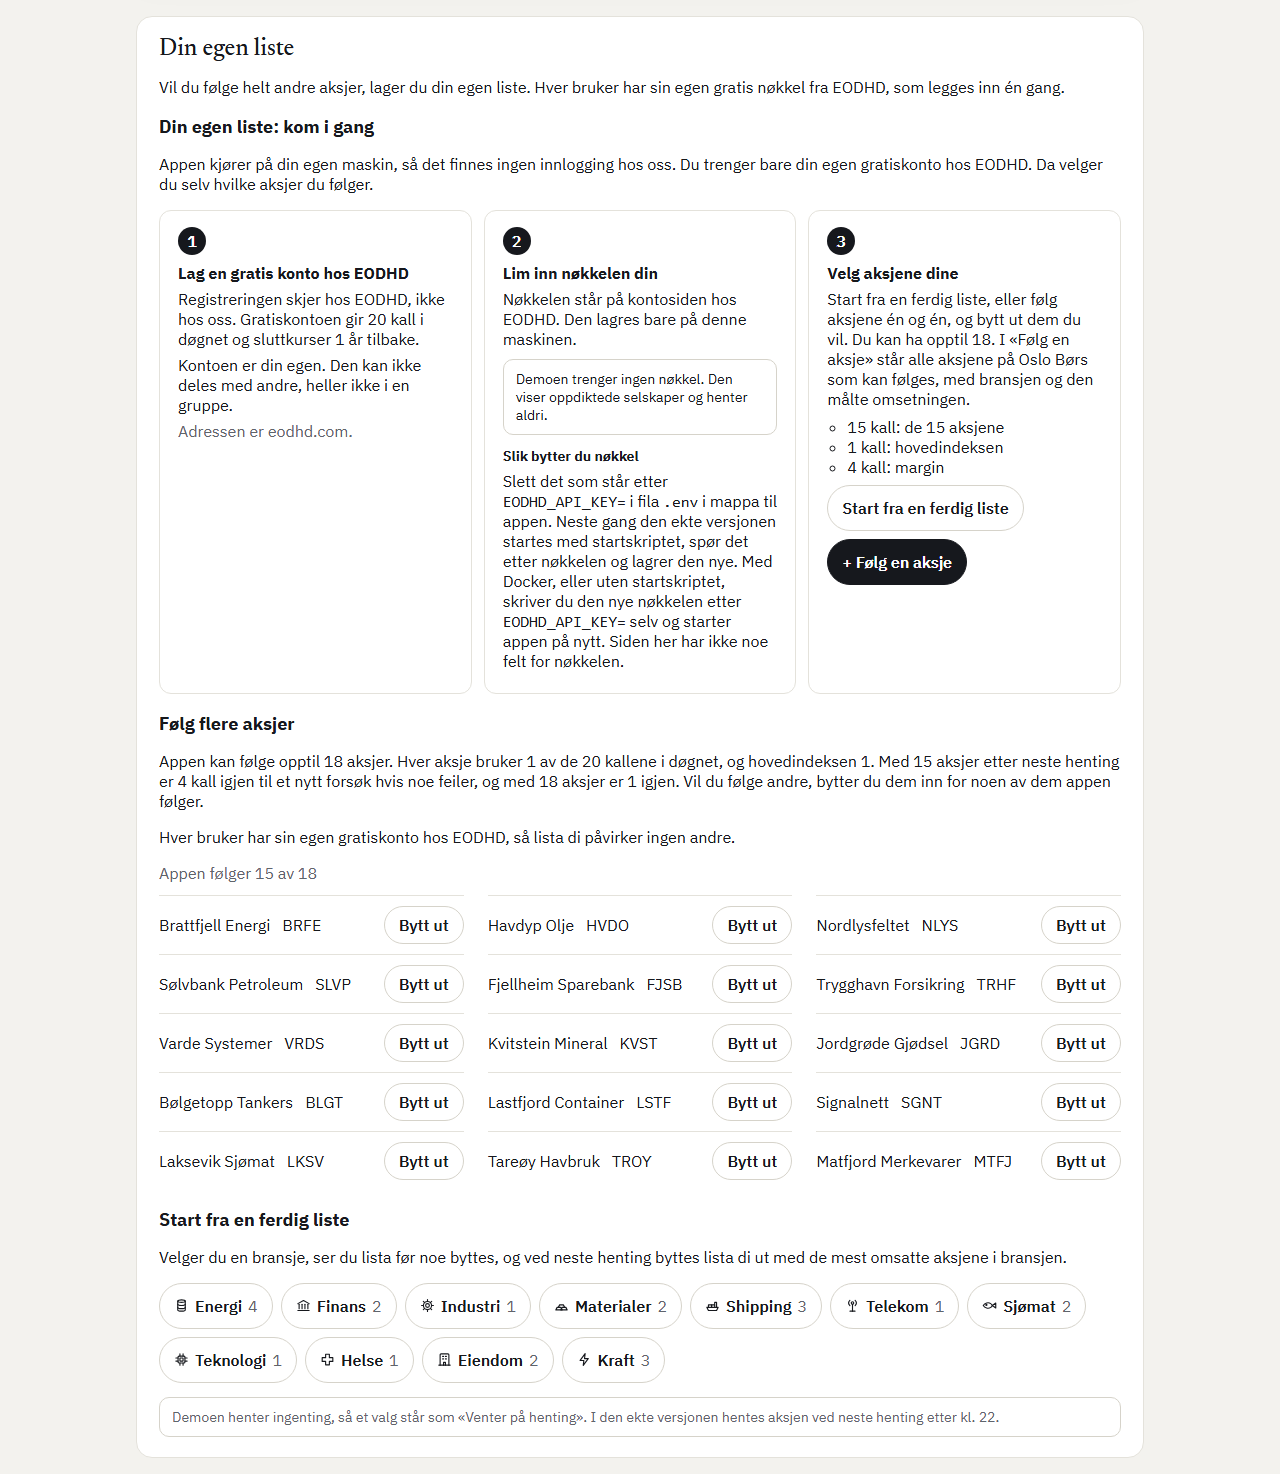
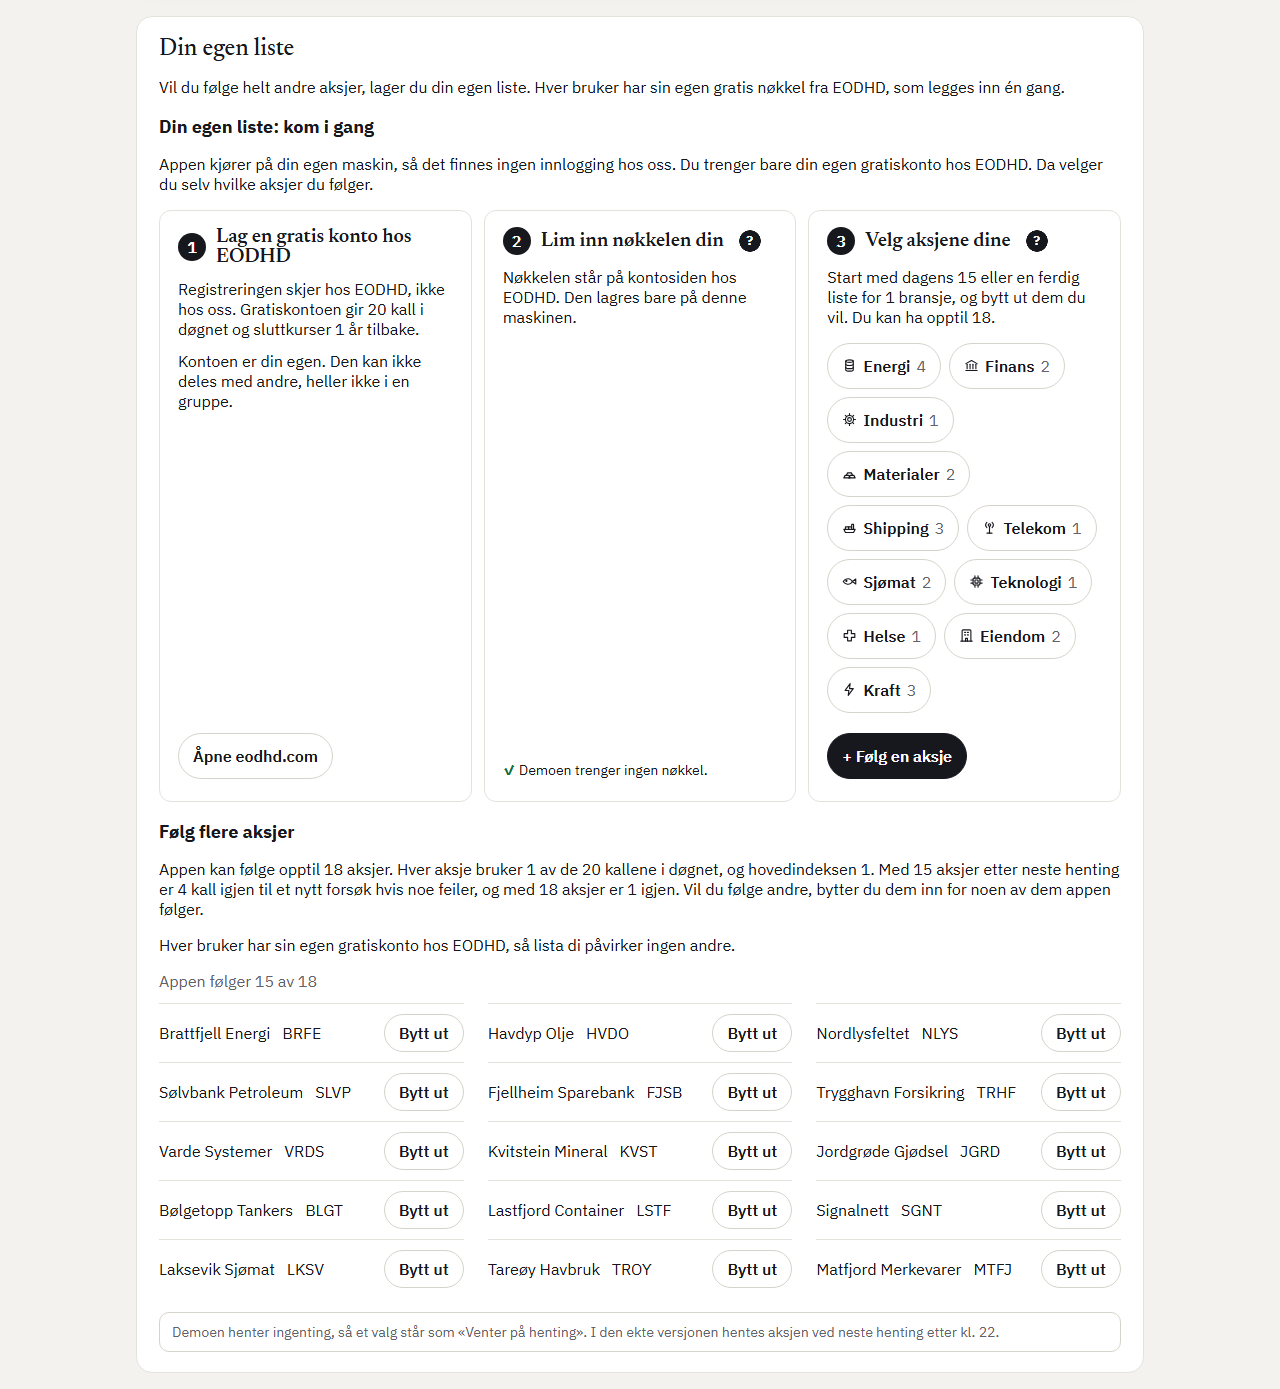
8.26: bildene av Min liste etter tillegg 12
«Din egen liste» med stegkortene som på tavla (1389 px, var 1474) og
notatene i Min liste. De andre bildene er like.

diff --git a/tests/test_docker.py b/tests/test_docker.py
@@ -1881,7 +1881,8 @@ DE_NYE_BILDENE = {
     # Gjennomgangen av tillegg 4: 1714, med teksten for Docker i «Slik bytter du nøkkel».
     # Tillegg 3 (svarene 10.11 kl. 22:44): 1454, med én knapp per bransje i stedet for lister. Var 1714.
     # Story 8.26: 1454 -> 1474 (tabellen «Dine egne aksjer» med navnet og bransjen på to linjer).
-    "docs/appen/din-egen-liste-demo.png": ("/min-liste", 1280, 1474, FILENE_BAK_MIN_LISTE),
+    # Story 8.26 (tillegg 12): 1474 -> 1389, stegkortene som på tavla, med kallene bak «?».
+    "docs/appen/din-egen-liste-demo.png": ("/min-liste", 1280, 1389, FILENE_BAK_MIN_LISTE),
     # Story 8.22: «Følg en aksje» i demoen med Kraft valgt, hele siden (1326 px), sist i knappen.
     # Flettingen av main (8.9, «Vis meg rundt») inn i 8.22: 1368. Bekreftelsen sier «Demo Børs» i
     # demoen (folg.html); bildet er byte for byte det samme.
